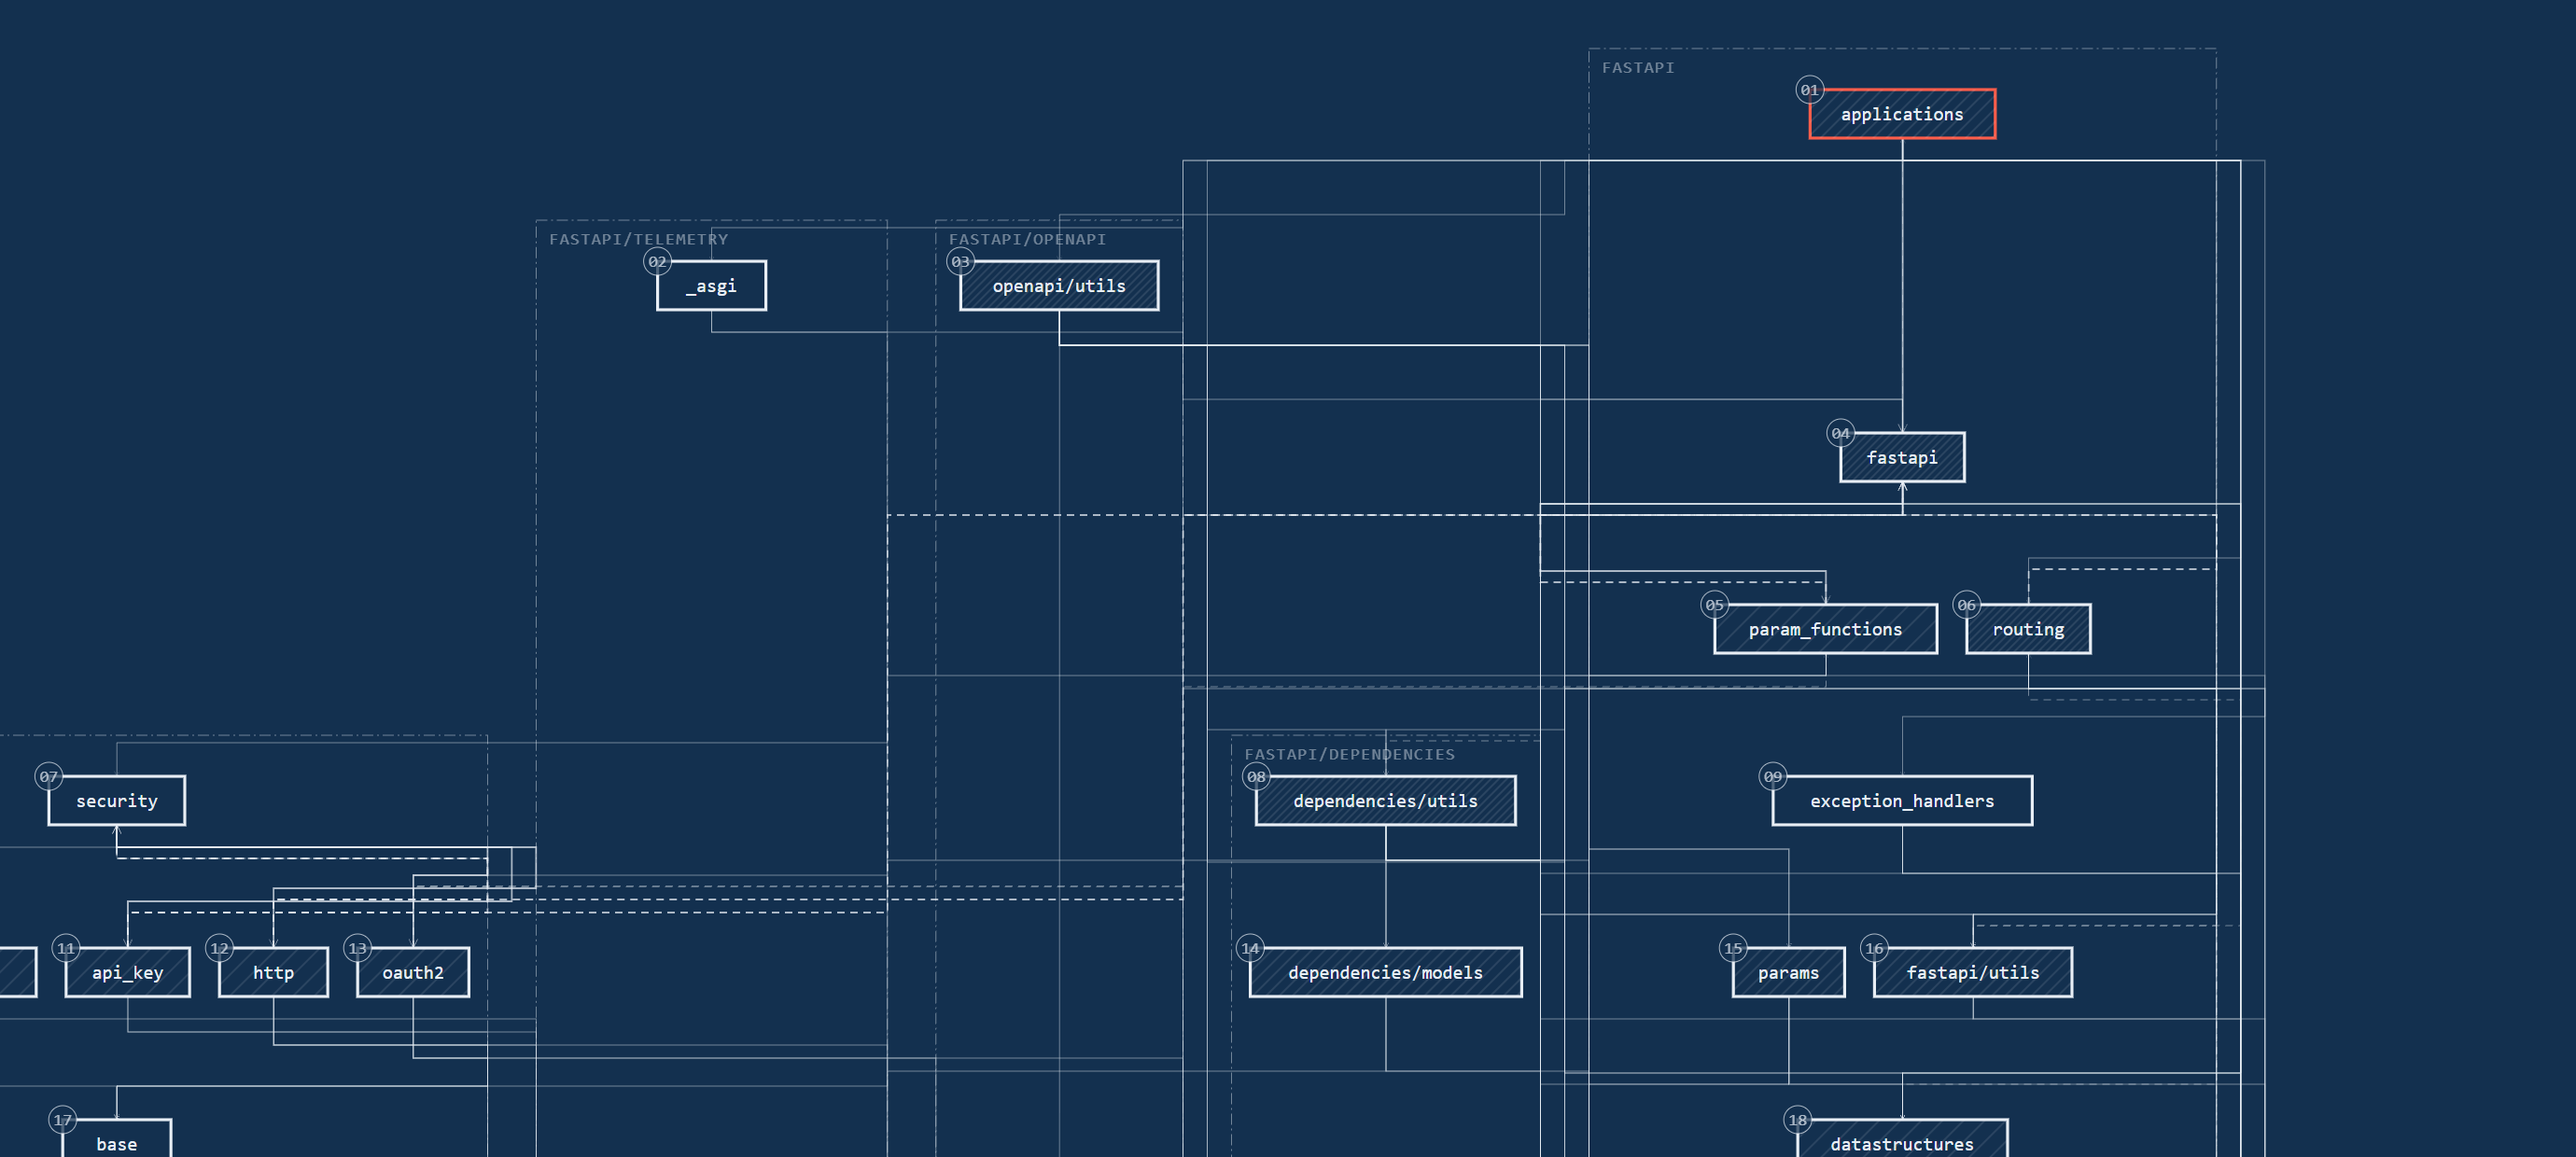
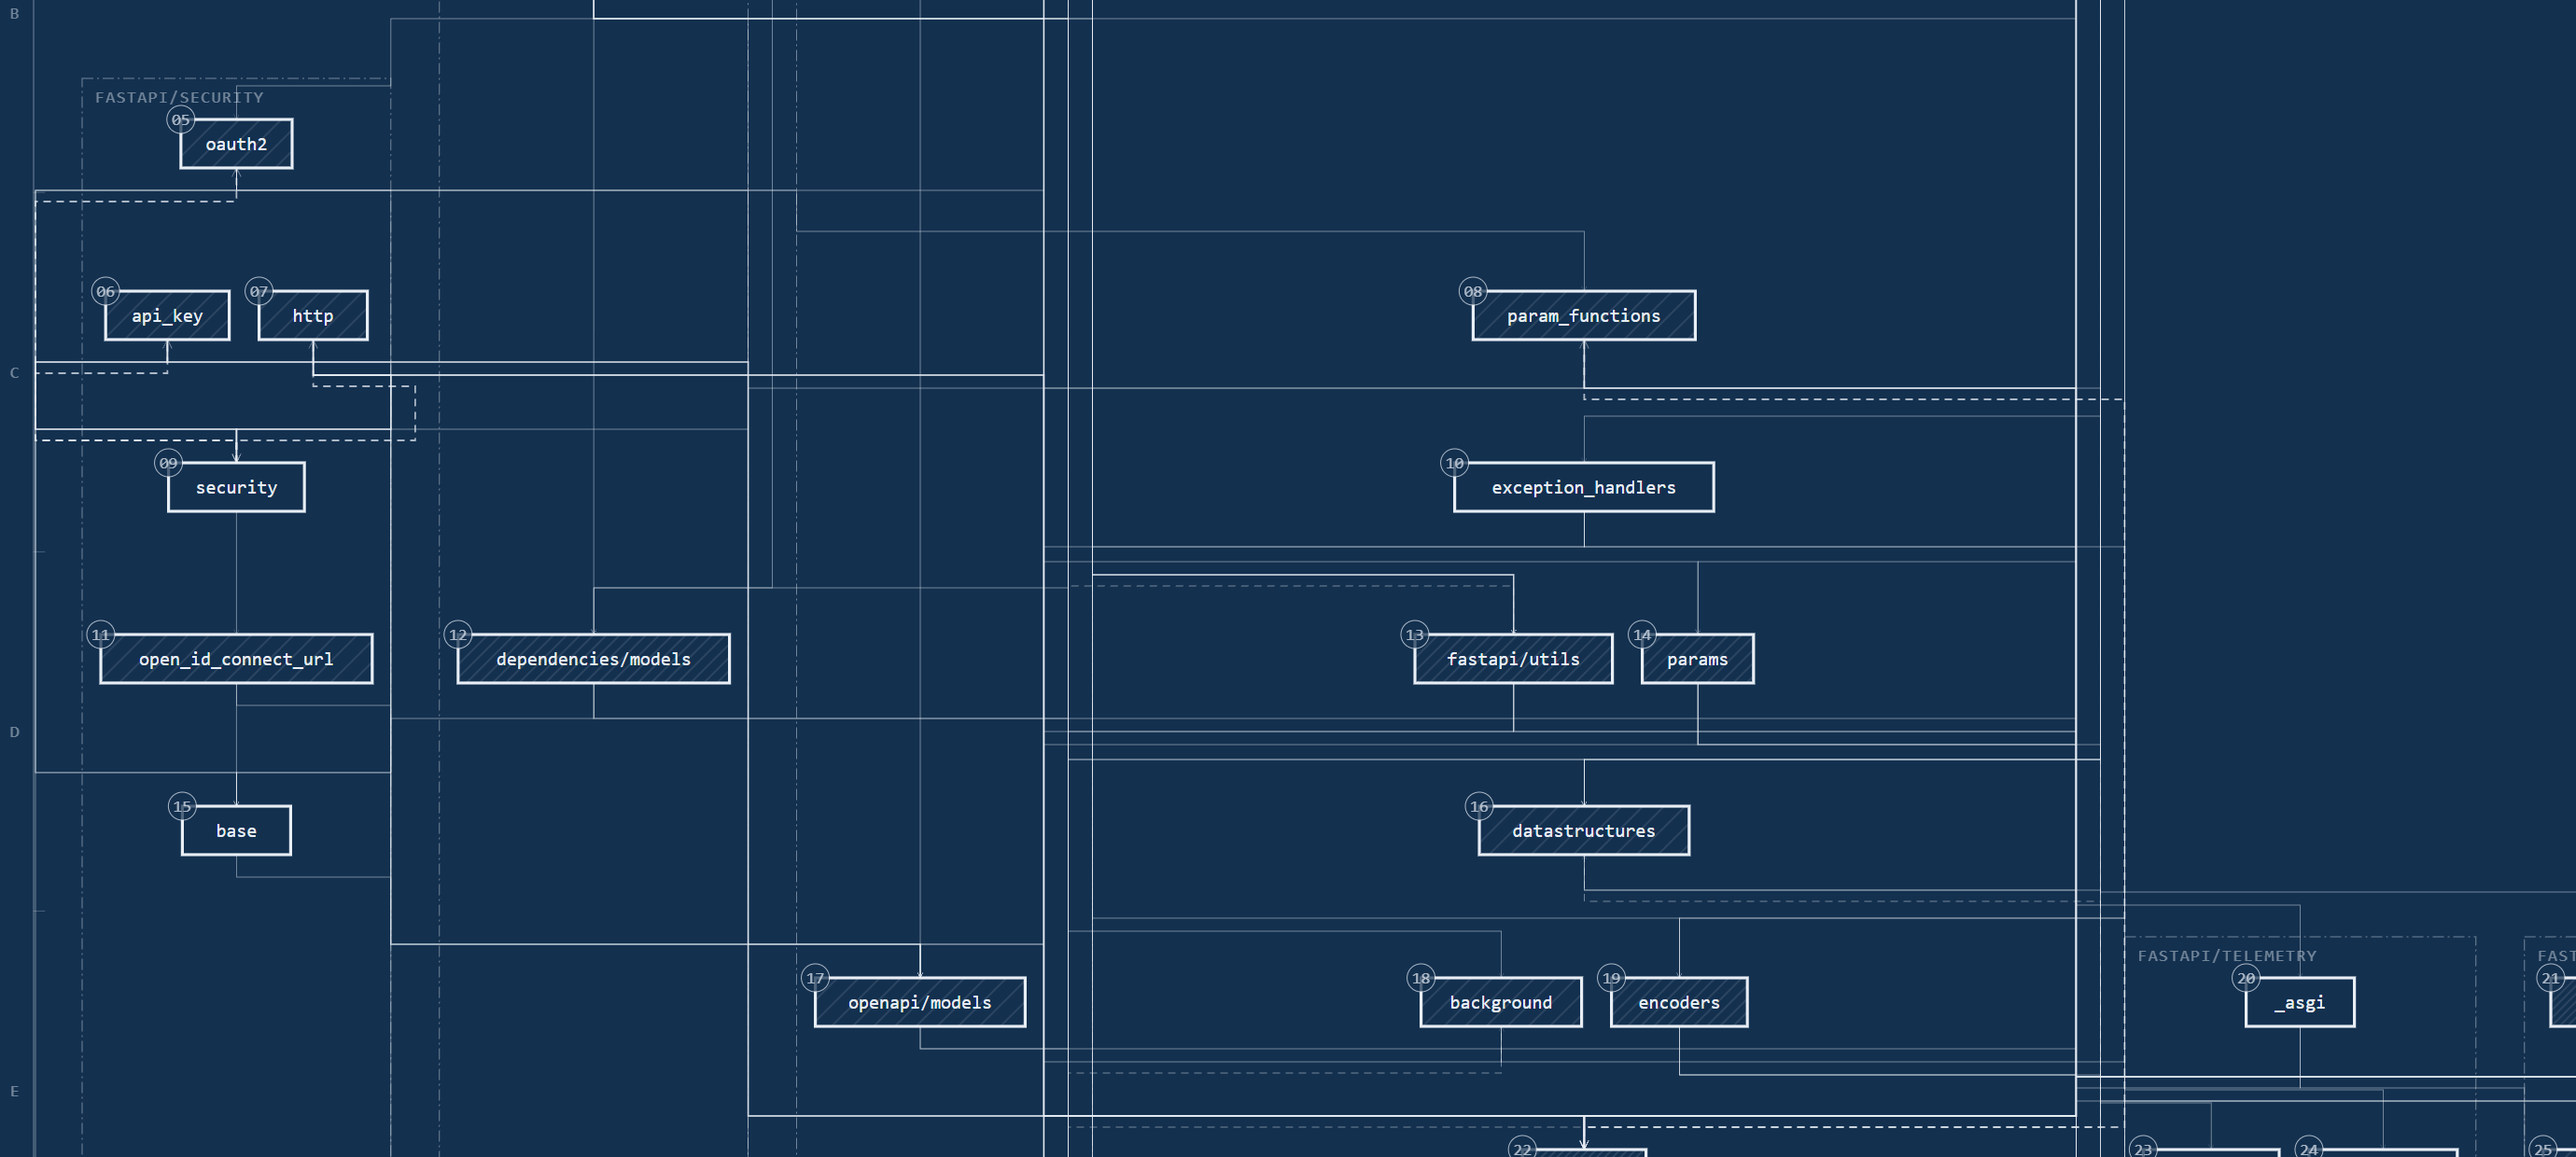
Show the audit, name the alternatives, answer the obvious questions
Reading how comparable repos present themselves: every one of them shows
the output before describing it, and the better ones say plainly what they
are not for.

- The audit was described in prose and never shown. Ten lines of zeroes
  argue for themselves.
- A comparison table against madge, dependency-cruiser, pydeps and
  GitDiagram, saying outright which of them to use instead and when.
- A Questions section covering the things a reader hits first: whether
  anything leaves the machine, what to do when the role split looks wrong,
  why a known import is missing, and that no agent is required.
- Jump links under the badges, now that the page is long enough to need
  them.
- "Red accent - the entry point" was wrong on a library, where it marks
  whatever sits highest in the stack. Say what it actually marks.

Also a social preview image, and a hero redrawn from the current layout.

diff --git a/README.md b/README.md
@@ -9,6 +9,8 @@
 [![Node](https://img.shields.io/badge/node-%E2%89%A520-1e3a5f.svg?style=flat-square)](https://nodejs.org)
 [![Dependencies](https://img.shields.io/badge/dependencies-0-1e3a5f.svg?style=flat-square)](package.json)
 
+[Try it](#try-it-in-thirty-seconds) · [Gallery](#the-gallery) · [Reading the drawing](#reading-the-drawing) · [How it compares](#how-it-compares) · [Limits](#limits) · [Questions](#questions)
+
 Point a coding agent at a repository and get one self-contained HTML page,
 drawn like an engineering sheet. See an unfamiliar codebase's shape in ten
 seconds, and find its import cycles without reading a line.
@@ -30,6 +32,24 @@ connect to, no label escaping its box, no balloon without a parts-list row.
 Ten checks, all of which must read zero. CI runs cutaway on cutaway — if it
 cannot satisfy its own spec on its own source, it has no business drawing
 yours.
+
+```console
+$ node src/audit.mjs graph.json
+
+graph.json
+   ok      0  part-overlap
+   ok      0  relation-through-part
+   ok      0  loose-end
+   ok      0  label-overflow
+   ok      0  region-excludes-member
+   ok      0  region-holds-foreigner
+   ok      0  region-overlap
+   ok      0  crosses-frame
+   ok      0  duplicate-balloon
+   ok      0  balloon-gap
+
+audit passed
+```
 
 ## Try it in thirty seconds
 
@@ -94,7 +114,7 @@ corner.
 | Dashed relation | An import that creates a cycle |
 | Dash-dot frame | A district: one directory |
 | Hatching | Churn — tighter hatch, more commits touching it |
-| Red accent | The entry point |
+| Red accent | The part at the top of the stack with the most dependencies — the entry point in an application, whatever sits highest in a library |
 
 Dashed relations are the useful ones: not every edge inside a cycle, but a
 set whose removal breaks every cycle in the repository.
@@ -129,6 +149,55 @@ no drawing.
 - Only `source` modules are drawn. Tests, examples, scripts and vendored code
   are counted and set aside; the extractor prints the split so you can see what
   was left out.
+
+## How it compares
+
+None of these are trying to do the same thing, and two of them are better than
+cutaway at what they are for.
+
+| | Languages | Needs | What you get |
+|---|---|---|---|
+| **cutaway** | Python, JS/TS | Node | A drafting sheet: depth rows, district frames, cycles, churn |
+| [madge](https://github.com/pahen/madge) | JS (and Sass/Less/Stylus) | graphviz, for images | A dependency graph and a circular-dependency list |
+| [dependency-cruiser](https://github.com/sverweij/dependency-cruiser) | JS/TS/CoffeeScript | graphviz, for images | Rule validation first — the graph is, in its own words, a side effect |
+| [pydeps](https://github.com/thebjorn/pydeps) | Python | graphviz | A Python module graph as SVG or PNG |
+| [GitDiagram](https://github.com/ahmedkhaleel2004/gitdiagram) | any | nothing, it is hosted | An LLM's reading of the repo as a Mermaid diagram |
+
+If you want a dependency rule enforced in CI, use dependency-cruiser. If you
+want one import cycle listed in a terminal, `madge --circular` is a shorter
+path than drawing anything. cutaway is for the case where you want to *look*
+at a repository: it is the only one of these that lays modules out by
+dependency depth, frames directories, and puts churn on the page. It is also
+the only one that checks its own output geometrically before showing it to
+you, and the only one that draws Python and JS/TS through the same pipeline.
+
+Unlike GitDiagram, nothing here is generated by a model — every line comes
+from an import the parser actually found, so the drawing is wrong only where
+the parser is.
+
+## Questions
+
+**Does any of this leave my machine?** No. Extraction and drawing are local,
+and the HTML makes no network calls — open it on a plane. The optional
+screenshot step launches a headless browser against the local file.
+
+**The extractor says `source` is near zero. What now?** The role heuristics
+misread a repo that nests its real code somewhere unusual. Point the extractor
+at the package directory rather than the repository root:
+`node src/extract.mjs repo/src --out graph.json`.
+
+**A module I know imports another shows no relation.** Three things are
+invisible to an import parser: anything wired through a registry or dependency
+injection, TypeScript path aliases (`@/x`), and dynamic imports whose
+specifier is not a plain string.
+
+**Do I need an agent to use it?** No. It is two `node` commands and a `.json`
+file. The skill exists so an agent can run them and read the result back to
+you, which is the part that is hard to automate.
+
+**It drew a wall poster.** Past 120 modules it should zoom out on its own; if
+you forced `--level module` on a large repo, that is what you asked for. Pass
+`--level district`.
 
 ## License
 
